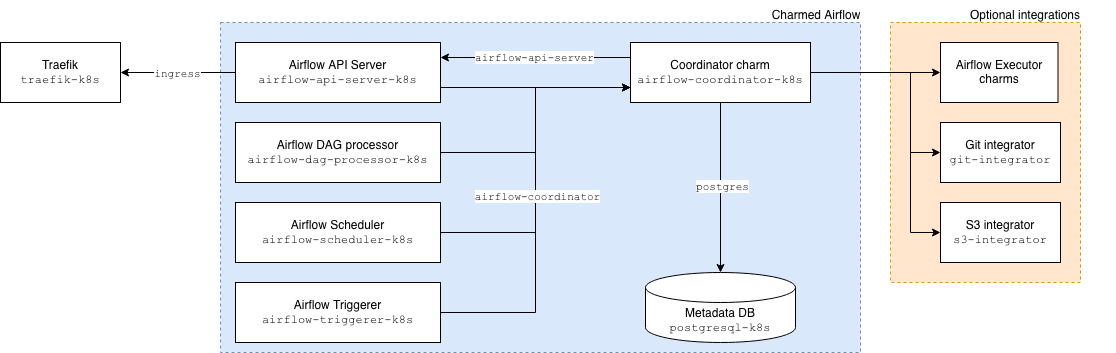
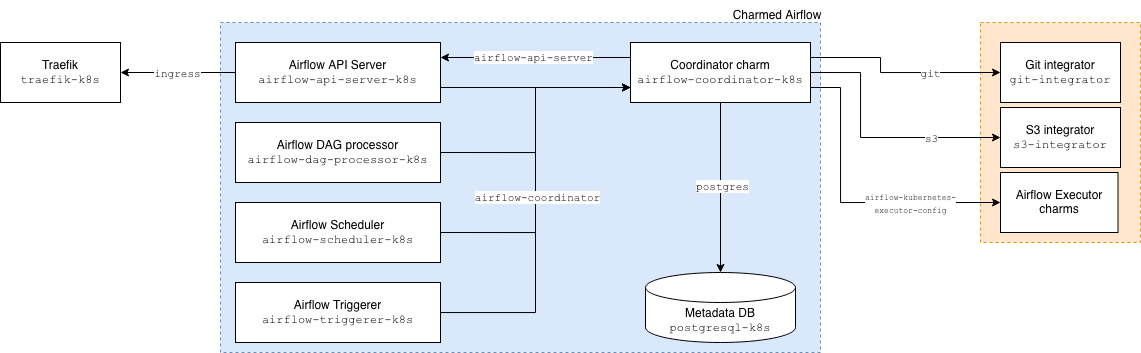
skip: improvements

diff --git a/docs/explanation/architecture-overview.rst b/docs/explanation/architecture-overview.rst
@@ -1,26 +1,18 @@
 Architecture overview
 =====================
 
-Charmed Airflow is a Canonical operator-driven distribution of
-`Apache Airflow`_ for Kubernetes. Each Airflow service runs as its own
-charm, so you can deploy, scale, and upgrade the pieces of an Airflow
-deployment independently instead of managing a single monolithic
-installation.
+Charmed Airflow is an open source cloud-native solution that allows
+the deployment of `Apache Airflow`_, as well as day 2
+operations over the deployment.
 
-This page describes the layers that make up a Charmed Airflow deployment, the
+This document describes the layers that make up a Charmed Airflow deployment, the
 role of each component, and how the components are connected.
 
-System architecture overview
-----------------------------
-
-Charmed Airflow is a cloud-native solution that integrates several components
-in different layers.
+The following provides a high-level view of a Charmed Airflow deployment:
 
 .. figure:: ../images/architecture-overview.png
    :alt: Charmed Airflow architecture layers, from infrastructure to components.
    :align: center
-
-   High-level view of a Charmed Airflow deployment.
 
 From the diagram above:
 
@@ -28,7 +20,7 @@ From the diagram above:
   `CNCF-certified Kubernetes`_ distribution, whether on public cloud, private
   cloud, self-hosted infrastructure, or a local development cluster.
 * **Ingress layer.** `Traefik`_ (``traefik-k8s``) terminates and routes
-  external traffic to the Airflow web interface and REST API.
+  external traffic to the Airflow web UI and REST API.
 * **Database layer.** `PostgreSQL`_ (``postgresql-k8s``) provides the
   persistent metadata store that Airflow uses to track DAGs, task instances,
   and run history.
@@ -74,14 +66,14 @@ Support charms
 
 .. _coordinator-charm:
 
-**Airflow Coordinator** (``airflow-coordinator-k8s``) is the central support
+* **Airflow Coordinator** (``airflow-coordinator-k8s``) is the central support
 charm. It gathers configuration from every source in the deployment — user
 configuration, defaults, database credentials, executor settings, and DAG
 source integrators — merges it into a single consistent Airflow
 configuration, and shares it with each core charm. As a result, the core
 charms never need to consume those relations directly.
 
-**Airflow Executor charms** configure how Airflow schedules and runs DAG
+* **Airflow Executor charms** configure how Airflow schedules and runs DAG
 tasks. Each executor charm advertises an executor-specific configuration
 (such as a Pod template) to the coordinator, which forwards it to the core
 charms. A deployment can use different executor charms depending on the
@@ -104,16 +96,12 @@ DAG distribution without baking DAGs into container images.
 Integrations
 ------------
 
-Charmed Airflow components communicate through `Juju integrations`_, which
-are typed relations backed by well-defined interfaces. The diagram below
-shows the integrations that connect the components of a Charmed Airflow
-deployment.
+Charmed Airflow components communicate through `Juju integrations`_, The diagram below
+shows the integrations that connect the components of a Charmed Airflow deployment.
 
 .. figure:: ../images/integrations.png
    :alt: Integrations between the Charmed Airflow components.
    :align: center
-
-   Integrations between Charmed Airflow components and their dependencies.
 
 Required integrations
 ~~~~~~~~~~~~~~~~~~~~~
@@ -136,8 +124,7 @@ active state:
 Optional integrations
 ~~~~~~~~~~~~~~~~~~~~~
 
-The following integrations enable optional capabilities. They can be added
-and removed at any time without re-deploying the core charms:
+The following integrations enable optional capabilities.
 
 * ``airflow-kubernetes-executor-config`` – used by the coordinator to collect
   the configuration required by the Kubernetes executor, including the Pod
